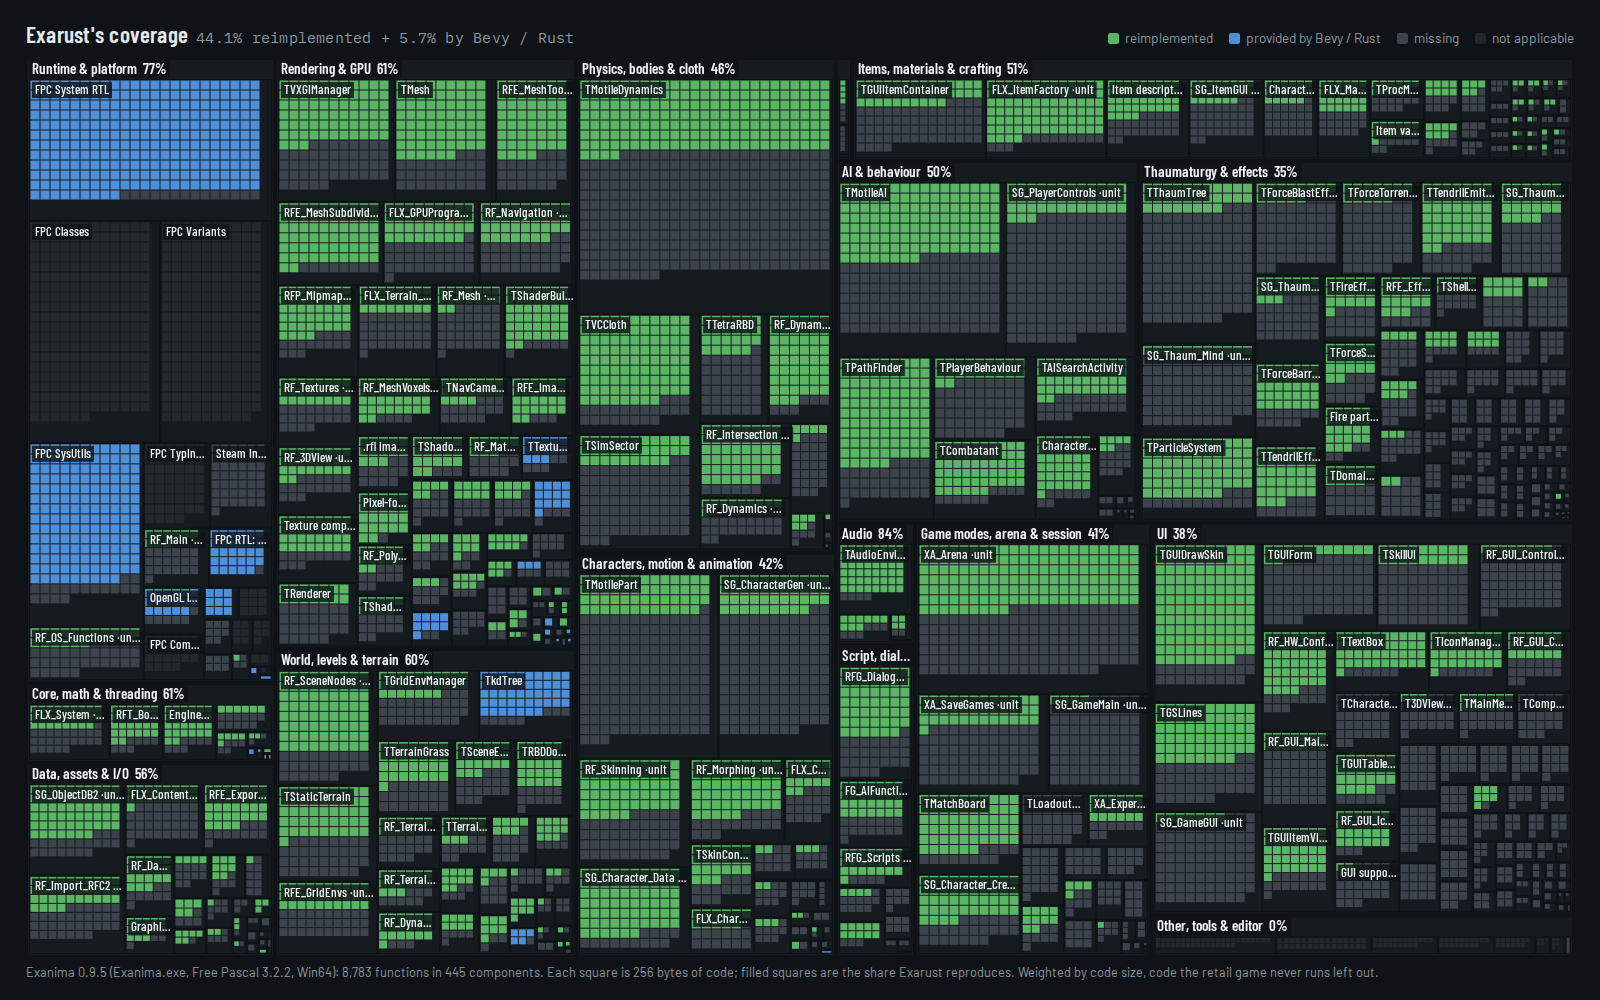
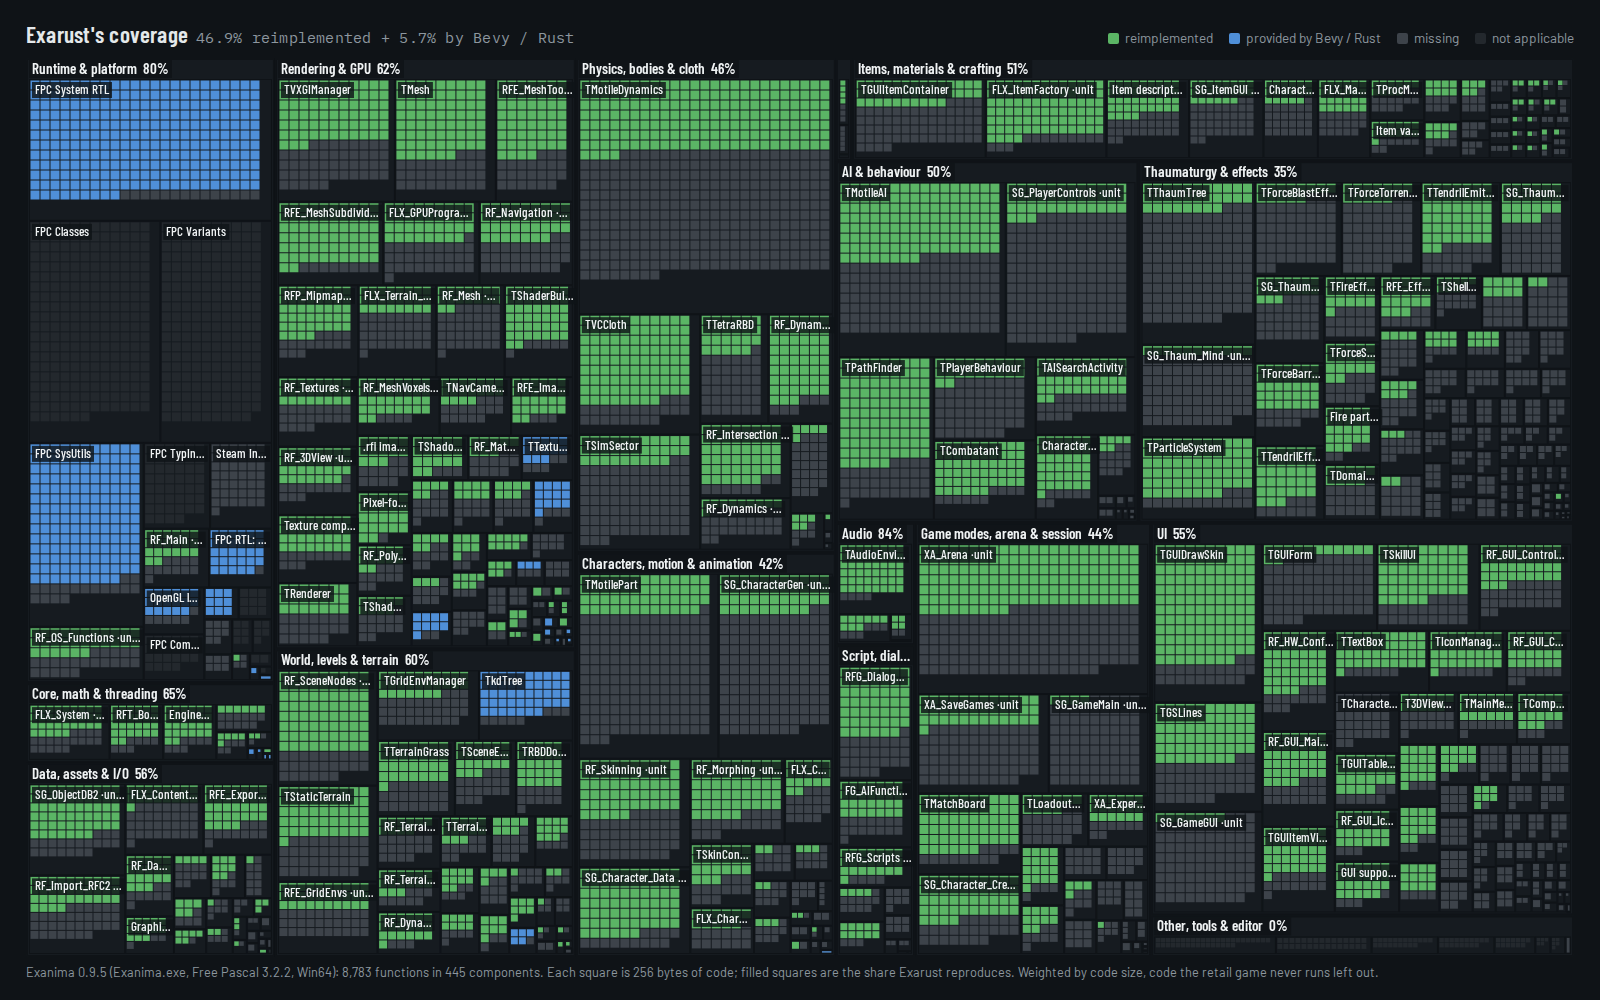
Record the forms, skill screen, GUI core and frame loop in the coverage history
Coverage 44.1% -> 46.9% by live code size (5.7% engine-provided). Moved:
RF_GUI_Text_Edit 1 -> 85, GUI support routines 6 -> 85, TSkillSelector,
TCompactSkillUI, TDivCardForm and TSelectionUI 0 -> 80, TEmblemForm
0 -> 75, TLoadoutForm 0 -> 35, TSkillUI 25 -> 70, RF_GUI_Controls_Ex
13 -> 60, RF_GUI_Main 25 -> 70, T3DViewport 10 -> 45, TMainMenu 44 -> 70,
RF_GUI_Controls 55 -> 75, RF_OS_Functions 34 -> 58, RF_Main 30 -> 63,
FLX_System 51 -> 63, TRenderer 35 -> 53, RF_3DView 60 -> 71.

diff --git a/docs/COMPONENT-MAP.md b/docs/COMPONENT-MAP.md
@@ -5,18 +5,18 @@ Every function of the retail `Exanima.exe` (Exanima 0.9.5, Free Pascal 3.2.2, Wi
 ## Headline
 
 - **8,783 functions**, 2,616 KB of code, in **445 components** across 16 sections.
-- Weighted by code size, with code the retail game never runs left out (1,343 functions, 163 KB): **44.1% reimplemented** by Exarust's own code and **5.7% provided** by Bevy, wgpu, rapier or the Rust standard library.
-- Weighted by function count (zero-byte imported names left out): 38.3% and 12.5%. The runtime's many tiny RTL routines make this figure lean towards the engine, which is why code size is the headline.
+- Weighted by code size, with code the retail game never runs left out (1,343 functions, 163 KB): **46.9% reimplemented** by Exarust's own code and **5.7% provided** by Bevy, wgpu, rapier or the Rust standard library.
+- Weighted by function count (zero-byte imported names left out): 41.3% and 12.5%. The runtime's many tiny RTL routines make this figure lean towards the engine, which is why code size is the headline.
 - The 24 combat-rule functions (52 KB of damage, armour and weapon-stat rules inside body, part, AI and item owners) are **44.1%** reproduced.
 
 ## By section
 
 | section | functions | KB | components | reimplemented | by engine | largest missing |
 |---|---:|---:|---:|---:|---:|---|
-| Runtime & platform | 2,407 | 293 | 26 | 4% | 72% | Steam Input action bindings, Win32 clipboard image/icon glue, Steam API glue |
-| Core, math & threading | 282 | 37 | 11 | 60% | 1% |  |
+| Runtime & platform | 2,407 | 293 | 26 | 8% | 72% | Steam Input action bindings, Win32 clipboard image/icon glue, Steam API glue |
+| Core, math & threading | 282 | 37 | 11 | 64% | 1% |  |
 | Data, assets & I/O | 440 | 91 | 26 | 56% | 0% | TStringLibrary, RF_DataManager, RFG_Locales routines (RFE_Export_RFC2 by address) |
-| Rendering & GPU | 823 | 334 | 63 | 58% | 3% | FLX_IconRender, Shading-mask GLSL snippets, Screen-quad GLSL snippets |
+| Rendering & GPU | 823 | 334 | 63 | 59% | 3% | FLX_IconRender, Shading-mask GLSL snippets, Screen-quad GLSL snippets |
 | World, levels & terrain | 454 | 174 | 31 | 52% | 7% | TSector, Scene node despawn and viewport step (TSceneTaskInt by address), TTerrainPlugin |
 | Physics, bodies & cloth | 363 | 242 | 13 | 46% | 0% | RFE_Dynamics_Cloth, TSimObject |
 | Characters, motion & animation | 506 | 198 | 23 | 42% | 0% | TCharDecomp2, TKFCCatRom3f, SG_CharacterMorph |
@@ -26,8 +26,8 @@ Every function of the retail `Exanima.exe` (Exanima 0.9.5, Free Pascal 3.2.2, Wi
 | Thaumaturgy & effects | 697 | 296 | 83 | 35% | 0% | RF_Env_Effects, TForceBubbleEffect, SG_Thaumaturgy |
 | Audio | 59 | 18 | 4 | 84% | 0% |  |
 | Script, dialogue & story | 184 | 46 | 11 | 61% | 0% | TDialogueChoices, TScriptRole, TGameTips |
-| Game modes, arena & session | 646 | 193 | 23 | 41% | 0% | TLoadoutForm, TDivCardForm, TCharCreation |
-| UI | 959 | 312 | 63 | 38% | 0% | TCharacterView, TCompactSkillUI, RF_GUI_Text_Edit |
+| Game modes, arena & session | 646 | 193 | 23 | 44% | 0% | TCharCreation, XA_Arena save and rank helpers (TMatchBoard by address), TShopWindow |
+| UI | 959 | 312 | 63 | 55% | 0% | TCharacterView, TSplashScreen, THairColPicker |
 | Other, tools & editor | 171 | 33 | 8 | 0% | 0% | Debug command registry (unit before RF_Dynamics) |
 
 - **Runtime & platform.** The Free Pascal runtime, the Windows imports and the engine's thin platform layer: program entry, window and OpenGL context, the frame loop with its pacing, and Steam with Steam Input gamepads. Much of the linked runtime never runs. Rust std, winit, Bevy and wgpu cover most of what does run; Steam, gamepads, the custom cursor, fullscreen display modes and the error message box are missing.
@@ -57,27 +57,27 @@ Ordered by code size; these are where most of the original still has no counterp
 | SG_Thaum_Mind | Thaumaturgy & effects | 45 | 21 | 13% |
 | TGUIForm | UI | 77 | 20 | 16% |
 | SG_GameMain | Game modes, arena & session | 59 | 20 | 5% |
-| RF_GUI_Controls_Ex | UI | 54 | 16 | 13% |
 | Steam Input action bindings | Runtime & platform | 29 | 11 | 0% |
 | TCharacterView | UI | 21 | 8 | 1% |
 | Rigid-body shape builders (RF_GUI_Controls_Ex by address) | Physics, bodies & cloth | 9 | 8 | 15% |
-| TLoadoutForm | Game modes, arena & session | 13 | 7 | 0% |
-| GUI support routines (unit before RF_GUI_Main) | UI | 21 | 7 | 6% |
-| T3DViewport | UI | 25 | 6 | 10% |
-| TCompactSkillUI | UI | 11 | 6 | 0% |
-| TDivCardForm | Game modes, arena & session | 9 | 5 | 0% |
-| RF_GUI_Text_Edit | UI | 17 | 5 | 1% |
 | TForceBarrierEffect | Thaumaturgy & effects | 7 | 5 | 9% |
-| TSelectionUI | UI | 18 | 5 | 0% |
-| TEmblemForm | UI | 18 | 4 | 0% |
 | TPwrForceKinesis_S | Thaumaturgy & effects | 9 | 4 | 10% |
-| TSkillSelector | UI | 8 | 3 | 0% |
 | TCharCreation | Game modes, arena & session | 12 | 3 | 3% |
 | XA_Arena save and rank helpers (TMatchBoard by address) | Game modes, arena & session | 9 | 3 | 0% |
 | RF_Env_Effects | Thaumaturgy & effects | 6 | 3 | 0% |
 | SG_Character_DBs | Data, assets & I/O | 15 | 3 | 10% |
 | TSplashScreen | UI | 7 | 3 | 4% |
 | FLX_IconRender | Rendering & GPU | 13 | 3 | 0% |
+| TForceBubbleEffect | Thaumaturgy & effects | 6 | 3 | 0% |
+| SG_Thaumaturgy | Thaumaturgy & effects | 10 | 3 | 0% |
+| THairColPicker | UI | 9 | 2 | 0% |
+| SG_GUI_Skills | UI | 8 | 2 | 0% |
+| TPwrDispSummonDemon_I | Thaumaturgy & effects | 4 | 2 | 0% |
+| TShopWindow | Game modes, arena & session | 8 | 2 | 0% |
+| Shading-mask GLSL snippets | Rendering & GPU | 6 | 2 | 0% |
+| SG_SaveWorld | Game modes, arena & session | 13 | 2 | 0% |
+| Scene content helpers (unit before RF_Dynamics) | World, levels & terrain | 11 | 2 | 10% |
+| TGUIColSwatch | UI | 12 | 2 | 0% |
 
 ## Best covered components
 
@@ -102,7 +102,7 @@ Ordered by code size; these are where most of the original still has no counterp
 | RF_Skinning | Characters, motion & animation | 25 | 56% | exa_assets/src/skin.rs; exa_assets/src/model.rs |
 | RFE_MeshTools | Rendering & GPU | 19 | 70% | exa_assets/src/mesh_edit.rs; exa_assets/src/vertex_cache.rs |
 | RF_Dynamics_Volumes | Physics, bodies & cloth | 14 | 90% | exa_physics/src/volume.rs; exa_physics/src/volume/tests.rs |
-| RF_Morphing | Characters, motion & animation | 16 | 76% | exa_formats/src/morph.rs; exa_assets/src/morph_controller.rs |
+| TSkillUI | UI | 18 | 70% | exa_ui/src/skill.rs; exa_character/src/record.rs |
 
 ## Combat rules
 

diff --git a/docs/reviews/coverage-history.md b/docs/reviews/coverage-history.md
@@ -89,3 +89,4 @@ while the map was being built, so treat the row as a best-effort snapshot.
 | 2026-10-21 | 77073966 | clean | 40.4% | 5.7% | 35.9% | 32.3% | GI sectors, skin builder, factory paint |
 | 2026-10-21 | 6cf36fe7 | clean | 42.4% | 5.7% | 37.0% | 32.3% | mip and mesh units, body fit, navigation, draw skin, shader templates |
 | 2026-10-21 | d99148d3 | clean | 44.1% | 5.7% | 38.3% | 44.1% | wave 3: locomotion kernel, damage routine, NPC combat state, player hand, arena company |
+| 2026-10-21 | 41f291c2 | clean | 46.9% | 5.7% | 41.3% | 44.1% | forms, skill screen, GUI core and frame loop |
